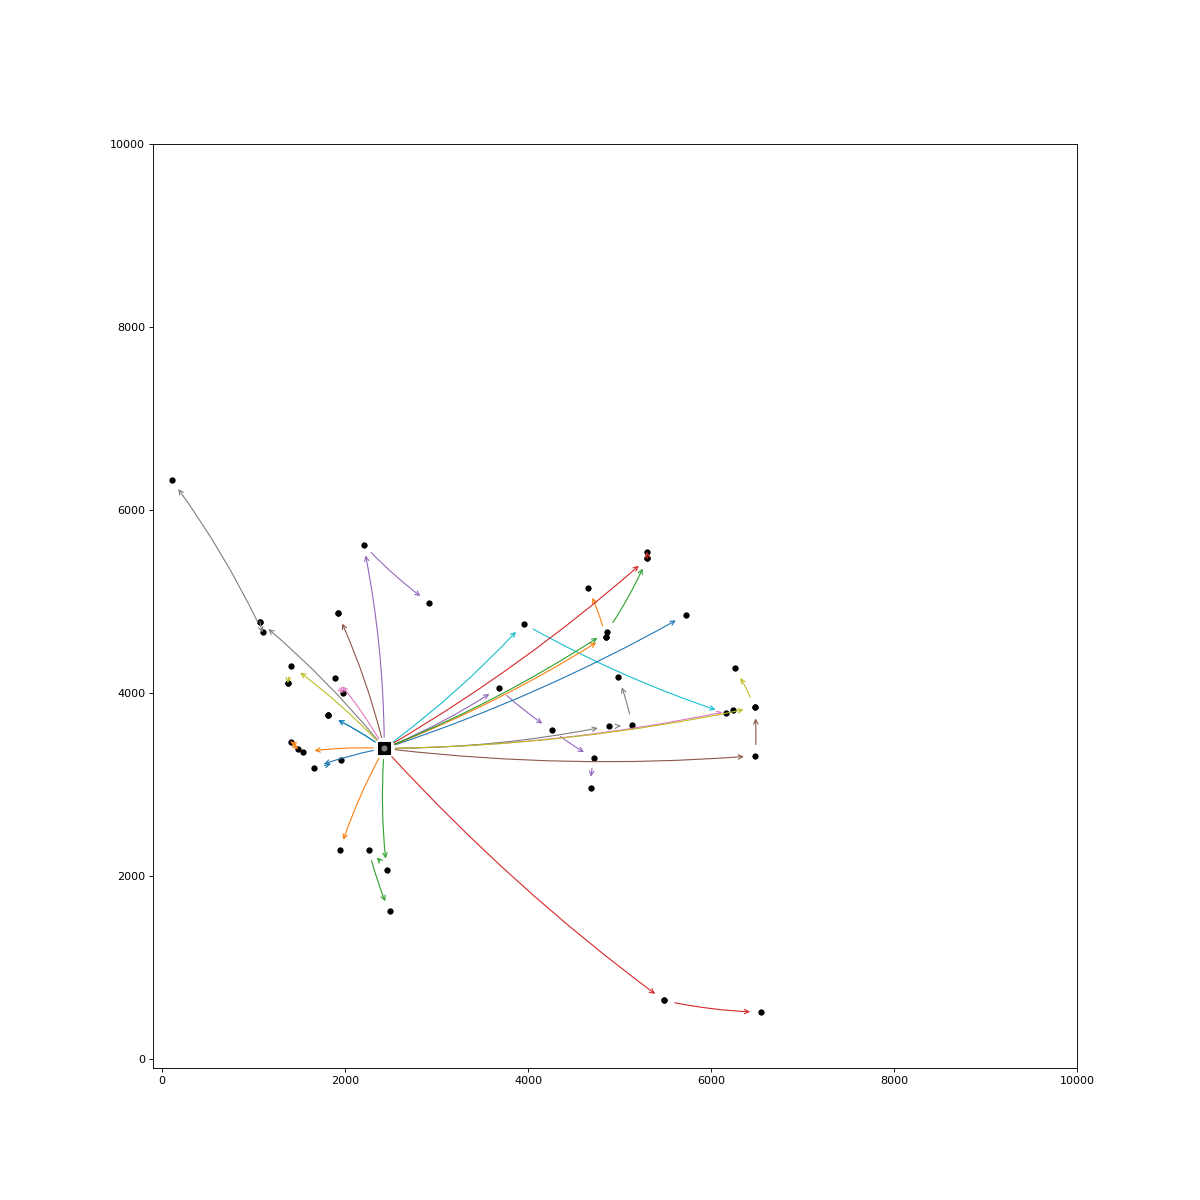
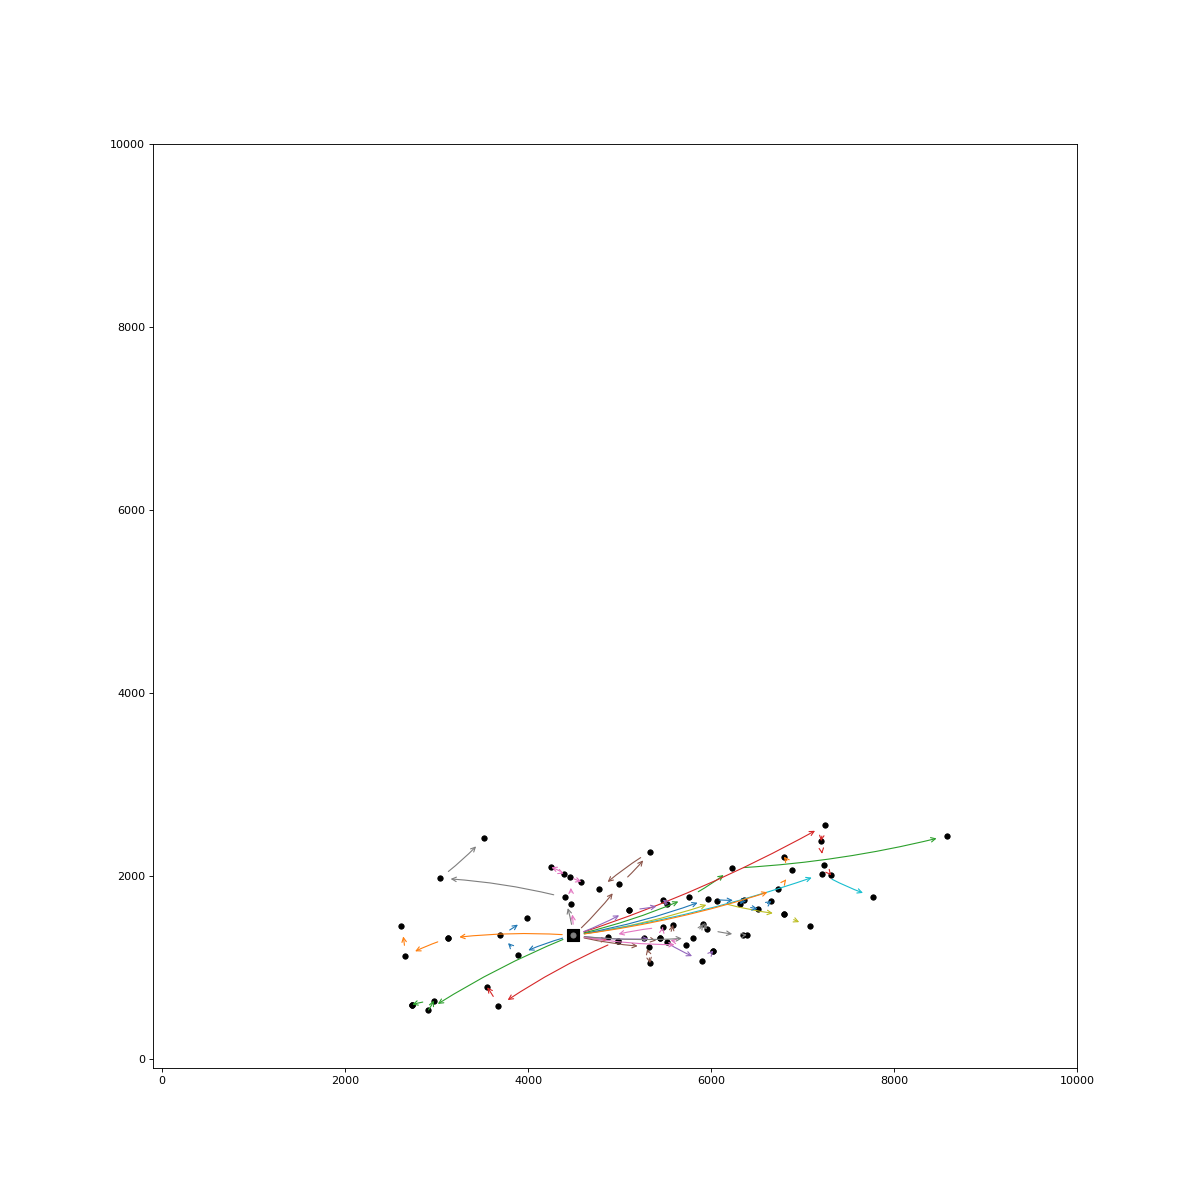
update visualization

diff --git a/visualization.py b/visualization.py
@@ -1,5 +1,10 @@
 import matplotlib.pyplot as plt
 import numpy as np
+from matplotlib.pyplot import figure
+import matplotlib.colors as mcolors
+
+list_of_color = list(mcolors.TABLEAU_COLORS.values())
+figure(figsize=(15, 15), dpi=80)
 
 def plot_epoch_solution(epoch_instance, epoch_solution):
     max_coord = 10000
@@ -12,7 +17,20 @@ def plot_epoch_solution(epoch_instance, epoch_solution):
     ax.set_xlim([min_coord ,max_coord])
     ax.set_ylim([min_coord ,max_coord])
 
-    for vehicle_route in (epoch_solution):
+    ax.scatter(epoch_instance["coords"][0][0],
+                epoch_instance["coords"][0][1],
+                marker=",", 
+                color="k", 
+                s=100)
+
+    ax.scatter(epoch_instance["coords"][:,0],
+                epoch_instance["coords"][:,1],
+                marker="o", 
+                color="grey", 
+                s=20)
+
+
+    for color_index, vehicle_route in enumerate(epoch_solution):
         for idx, request_idx in enumerate(vehicle_route):
             real_index = np.where(epoch_instance["request_idx"] == request_idx)[0][0]
             ax.scatter(epoch_instance["coords"][real_index][0],
@@ -21,13 +39,7 @@ def plot_epoch_solution(epoch_instance, epoch_solution):
                             color="k", 
                             s=20)
             
-            
             if idx == 0:
-                ax.scatter(epoch_instance["coords"][0][0],
-                            epoch_instance["coords"][0][1],
-                            marker=",", 
-                            color="k", 
-                            s=100)
                             
                 ax.annotate("",
                             xy=(epoch_instance["coords"][real_index][0],
@@ -38,7 +50,7 @@ def plot_epoch_solution(epoch_instance, epoch_solution):
                             textcoords='data',
                             arrowprops=dict(arrowstyle="->",
                                             connectionstyle="arc3,rad=0.05",
-                                            shrinkA=10, shrinkB=10,),
+                                            shrinkA=10, shrinkB=10, color=list_of_color[color_index%len(list_of_color)]),
                             )
             else:     
                 previous_real_index = np.where(epoch_instance["request_idx"] == vehicle_route[idx-1])[0][0]
@@ -52,7 +64,7 @@ def plot_epoch_solution(epoch_instance, epoch_solution):
                             textcoords='data',
                             arrowprops=dict(arrowstyle="->",
                                             connectionstyle="arc3,rad=0.05",
-                                            shrinkA=10, shrinkB=10,),
+                                            shrinkA=10, shrinkB=10, color=list_of_color[color_index%len(list_of_color)]),
                             )
 
 
